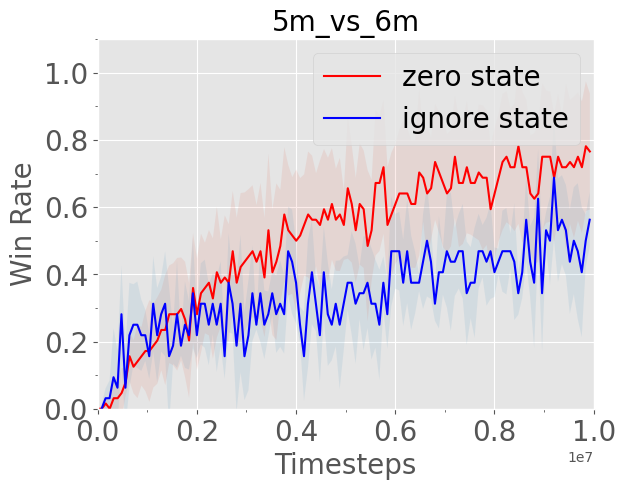
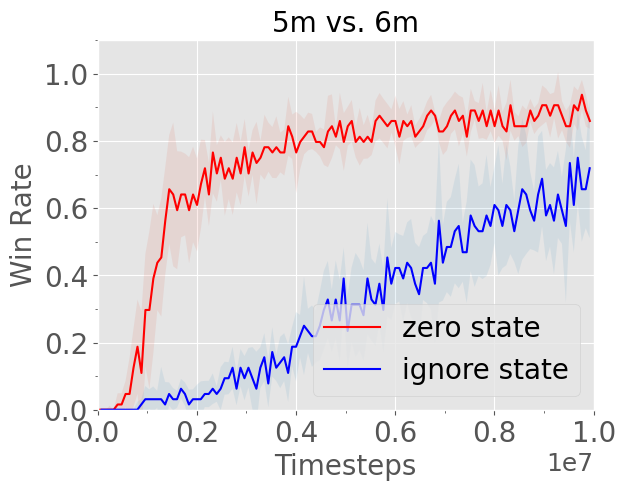
update

diff --git a/onpolicy/scripts/plot/plot_global_state_2figures.py b/onpolicy/scripts/plot/plot_global_state_2figures.py
@@ -116,13 +116,113 @@ for map_name, title_name in zip(map_names,title_names):
 
     plt.savefig(save_dir + map_name + "_global_state_mask.png", bbox_inches="tight")
 
-########## figure 2
+
+#########figure2
+
+for map_name, title_name in zip(map_names,title_names):
+    plt.figure()
+    ###################################PPO###################################
+    #exp_names = ['final_mappo', 'mappo_nomustalive', 'final_mappo_original', 'mappo_original_mustalive'] 
+    exp_names = ['mappo_catgl_dead', 'mappo_catgl_all']
+    label_names = ["original+local with death mask", "original+local without death mask"]
+    color_names = ['red','blue','limegreen','saddlebrown']
+
+    save_dir = './global_state/'
+    if not os.path.exists(save_dir):
+        os.makedirs(save_dir)
+    max_steps = []
+    for exp_name, label_name, color_name in zip(exp_names, label_names, color_names):
+        print(exp_name)
+        if exp_name in ['mappo_nomustalive', 'mappo_original_mustalive', 'mappo_catobs', 'mappo_catgl_dead', 'mappo_catgl_all']:
+            data_dir =  './global_state/' + map_name + '/' + map_name + '_' + exp_name + '.csv'
+        else:
+            data_dir =  './' + map_name + '/' + map_name + '_' + exp_name + '.csv'
+        
+        df = pandas.read_csv(data_dir)
+        
+        key_cols = [c for c in df.columns if 'MIN' not in c and 'MAX' not in c]
+        key_step = [n for n in key_cols if n == 'Step']
+        key_win_rate = [n for n in key_cols if n != 'Step']
+
+        all_step = np.array(df[key_step])
+        all_win_rate = np.array(df[key_win_rate])
+
+        print("original shape is ")
+        print(all_step.shape)
+        print(all_win_rate.shape)
+
+        df_final = df[key_cols].dropna()
+        step = df_final[key_step]
+        win_rate = df_final[key_win_rate]
+
+        print("drop nan shape is")
+        print(np.array(step).shape)
+        print(np.array(win_rate).shape)
+
+        max_step = step.max()['Step']
+        print("max step is {}".format(max_step))
+
+        if "ppo" in exp_name and max_step < 4.96e6:
+            print("error: broken data! double check!")
+
+        if max_step < 4e6:
+            max_step = 2e6
+        elif max_step < 9e6:
+            max_step = 5e6
+        else:
+            max_step = 10e6
+
+        print("final step is {}".format(max_step))
+        max_steps.append(max_step)
+
+        df_final = df_final.loc[df_final['Step'] <= max_step] 
+
+        x_step = np.array(df_final[key_step]).squeeze(-1)
+        y_seed = np.array(df_final[key_win_rate])
+
+        median_seed = np.median(y_seed, axis=1)
+        std_seed = np.std(y_seed, axis=1)
+        plt.plot(x_step, median_seed, label = label_name, color=color_name)
+        plt.fill_between(x_step,
+            median_seed - std_seed,
+            median_seed + std_seed,
+            alpha=0.1)
+
+    plt.tick_params(axis='both',which='major') 
+    final_max_step = np.min(max_steps)
+    print("final max step is {}".format(final_max_step))
+    x_major_locator = MultipleLocator(int(final_max_step/5))
+    x_minor_Locator = MultipleLocator(int(final_max_step/10)) 
+    y_major_locator = MultipleLocator(0.2)
+    y_minor_Locator = MultipleLocator(0.1)
+    ax=plt.gca()
+    ax.xaxis.set_major_locator(x_major_locator)
+    ax.yaxis.set_major_locator(y_major_locator)
+    ax.xaxis.set_minor_locator(x_minor_Locator)
+    ax.yaxis.set_minor_locator(y_minor_Locator)
+    ax.xaxis.get_major_formatter().set_powerlimits((0,1))
+    tx = ax.xaxis.get_offset_text() 
+    tx.set_fontsize(18) 
+    #ax.xaxis.grid(True, which='minor')
+    plt.xlim(0, final_max_step)
+    plt.ylim([0, 1.1])
+    plt.xticks(fontsize=20)
+    plt.yticks(fontsize=20)
+    plt.xlabel('Timesteps', fontsize=20)
+    plt.ylabel('Win Rate', fontsize=20)
+    plt.title(title_name, fontsize=20)
+    plt.legend(loc='best', numpoints=1, fancybox=True, fontsize=20)
+
+    plt.savefig(save_dir + map_name + "_new_global_state_mask.png", bbox_inches="tight")
+
+########## figure 3
+
 map_names = ['MMM2','6h_vs_8z','corridor','10m_vs_11m','3s5z_vs_3s6z','5m_vs_6m']
 for map_name in map_names:
     plt.figure()
     ###################################PPO###################################
-    exp_names = ['final_mappo', 'mappo_original_mustalive', 'mappo_catobs'] 
-    label_names = ["agent-specific", "original", "concated"]
+    exp_names = ['final_mappo', 'mappo_original_mustalive', 'mappo_catobs','mappo_catgl_dead'] 
+    label_names = ["agent-specific", "original", "concated", 'original+local']
     color_names = ['red','blue','limegreen']
 
     save_dir = './global_state/'

diff --git a/onpolicy/scripts/plot/plot_global_state_subplot.py b/onpolicy/scripts/plot/plot_global_state_subplot.py
@@ -18,9 +18,9 @@ plt.style.use('ggplot')
 
 map_names = ['6h_vs_8z','corridor','10m_vs_11m','3s5z_vs_3s6z','5m_vs_6m']
 title_names = [name.replace("_vs_"," vs. ") for name in map_names]
-exp_names = ['final_mappo', 'mappo_original_mustalive', 'mappo_catobs'] 
-label_names = ["agent-specific", "original", "concatenated"]
-color_names = ['red','blue','limegreen']
+exp_names = ['final_mappo', 'mappo_original_mustalive', 'mappo_catobs', 'mappo_catgl_dead'] 
+label_names = ["agent-specific", "original", "concatenated","original+local"]
+color_names = ['red','blue','limegreen','saddlebrown']
 
 save_dir = './subplot/'
 if not os.path.exists(save_dir):
@@ -34,7 +34,7 @@ for map_name, title_name, ax in zip(map_names, title_names, axes):
     max_steps = []
     for exp_name, label_name, color_name in zip(exp_names, label_names, color_names):
         print(exp_name)
-        if exp_name in ['mappo_nomustalive', 'mappo_original_mustalive', 'mappo_catobs']:
+        if exp_name in ['mappo_nomustalive', 'mappo_original_mustalive', 'mappo_catobs','mappo_catgl_dead']:
             data_dir =  './global_state/' + map_name + '/' + map_name + '_' + exp_name + '.csv'
         else:
             data_dir =  './' + map_name + '/' + map_name + '_' + exp_name + '.csv'
